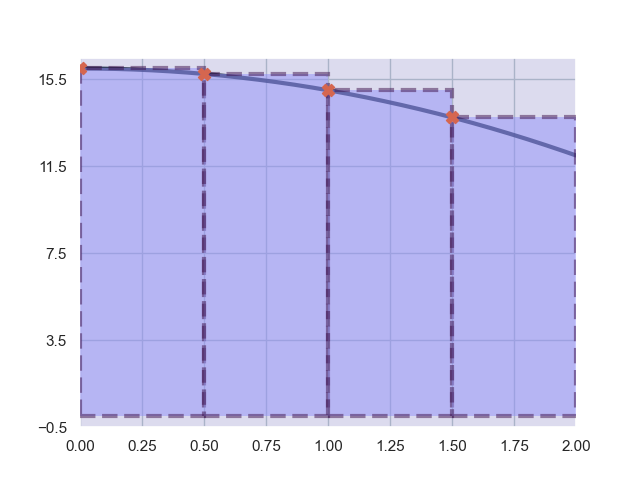
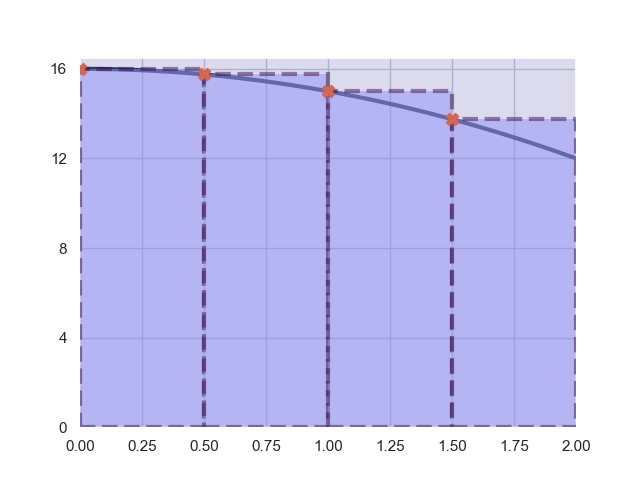
fix x axis

Changed region(s): [[0.0625, 0.125, 0.9062, 0.9062], [0.0625, 0.3125, 0.1562, 0.375], [0.5, 0.3125, 0.5312, 0.375]]

diff --git a/problems/riemann_sums/main.py b/problems/riemann_sums/main.py
@@ -7,7 +7,7 @@ from pathlib import Path
 
 SCRIPT_PATH = Path(__file__).parent
 XLIM = (0, 2)
-YLIM = (-0.5, 16.5)
+YLIM = (0, 16.5)
 YTICKS = np.arange(YLIM[0], YLIM[1] + 0.5, 4)
 RESOLUTION = 1000
 FUNCCOLOR = '#0A193B'
